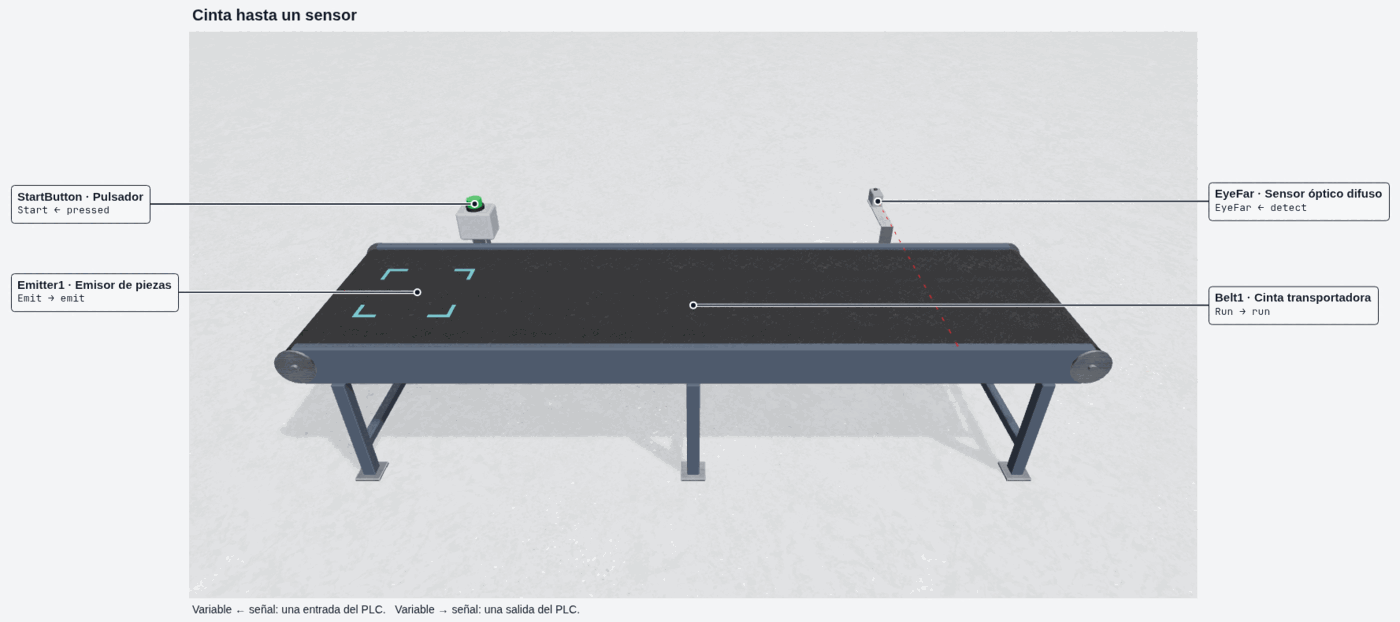
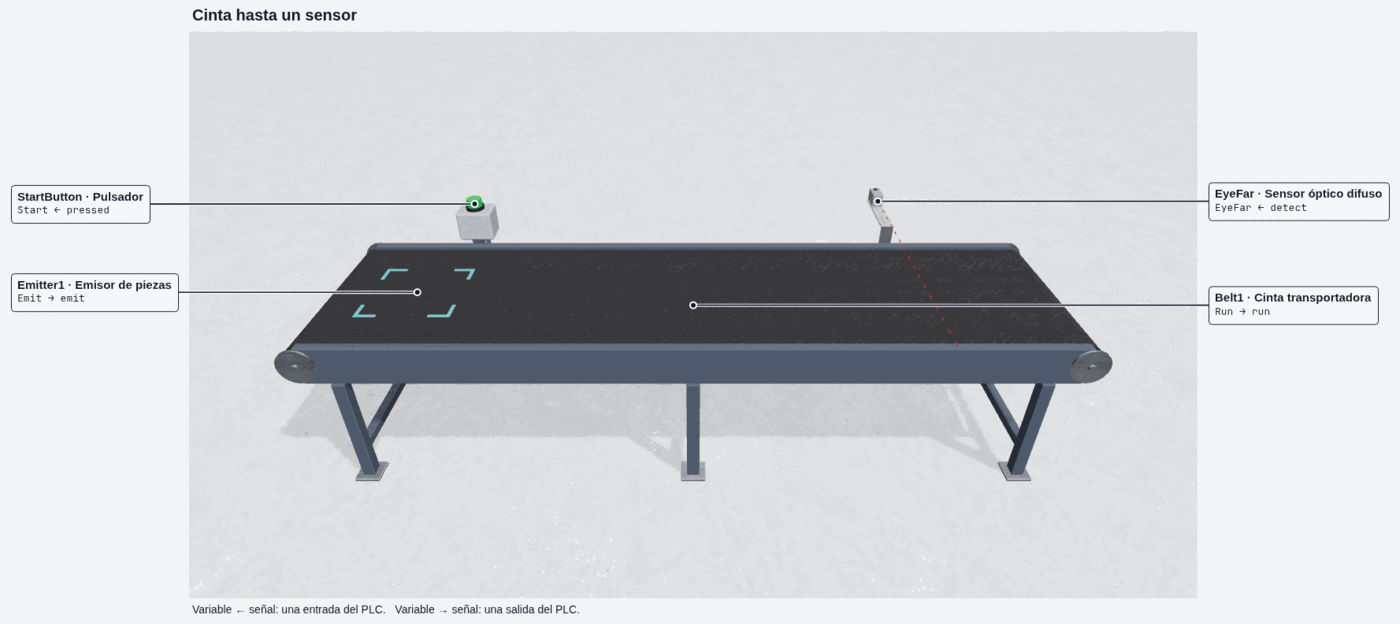
fix(learn): require image pairs to match in size and alt text, and pad the Spanish machine image to its pair

diff --git a/packages/zplc-ide/src/learn/lessonPackage.ts b/packages/zplc-ide/src/learn/lessonPackage.ts
@@ -662,14 +662,16 @@ export interface ReadingSource {
 export interface ReadingWalk {
   directives: ReadingDirective[];
   images: string[];
+  /** The alt text of each image, by its src. */
+  alts: Record<string, string>;
 }
 
 /** Every live block and image of a page, in reading order, inside lists and callouts too. */
 export function walkReading(blocks: readonly ReadingBlock[]): ReadingWalk {
-  const found: ReadingWalk = { directives: [], images: [] };
+  const found: ReadingWalk = { directives: [], images: [], alts: {} };
   const visit = (block: ReadingBlock): void => {
     if (block.type === 'directive') found.directives.push(block.directive);
-    else if (block.type === 'image') found.images.push(block.src);
+    else if (block.type === 'image') (found.images.push(block.src), (found.alts[block.src] = block.alt));
     else if (block.type === 'callout') block.children.forEach(visit);
     else if (block.type === 'list') block.items.forEach((item) => item.forEach(visit));
   };
@@ -683,6 +685,30 @@ export const directiveFiles = (directives: readonly ReadingDirective[]): string[
     directives.filter((each) => each.kind === 'ld-figure' || each.kind === 'ld-try').map((each) => (each.data as { src: string }).src),
   ),
 ];
+
+const pixelSize = (bytes: Uint8Array): string => {
+  const view = new DataView(bytes.buffer, bytes.byteOffset, bytes.byteLength);
+  return bytes.length < 24 ? '?' : `${view.getUint32(16)} x ${view.getUint32(20)}`;
+};
+
+/** The language pairs `images/x.en.png` and `images/x.es.png` go together, with the same pixel size and an alt text per page. */
+function imagePairProblems(images: ReadingSource['images'], walks: Record<LessonLocale, ReadingWalk>): string[] {
+  const problems: string[] = [];
+  for (const [path, bytes] of Object.entries(images)) {
+    const match = /^(.*)\.(en|es)\.png$/.exec(path);
+    if (!match || match[2] !== 'en') {
+      if (match && !(`${match[1]}.en.png` in images)) problems.push(`${path}: has no ${match[1]}.en.png beside it`);
+      continue;
+    }
+    const other = `${match[1]}.es.png`;
+    if (!(other in images)) problems.push(`${path}: has no ${other} beside it`);
+    else if (pixelSize(bytes) !== pixelSize(images[other]!))
+      problems.push(`${path} and ${other}: have different sizes (${pixelSize(bytes)} and ${pixelSize(images[other]!)})`);
+    else if (walks.en.alts[path] !== undefined && walks.en.alts[path] === walks.es.alts[other])
+      problems.push(`reading.es.md: "${other}" needs an alt text of its own, not the English one`);
+  }
+  return problems;
+}
 
 export interface ReadingChecked {
   problems: string[];
@@ -703,7 +729,7 @@ export interface ReadingChecked {
 export function checkReading(source: ReadingSource, scenario: ScenarioFile): ReadingChecked {
   const problems: string[] = [];
   const expanded = { en: '', es: '' };
-  const walks: Record<LessonLocale, ReadingWalk> = { en: { directives: [], images: [] }, es: { directives: [], images: [] } };
+  const walks: Record<LessonLocale, ReadingWalk> = { en: { directives: [], images: [], alts: {} }, es: { directives: [], images: [], alts: {} } };
   const shapes: Partial<Record<LessonLocale, string>> = {};
   for (const locale of LESSON_LOCALES) {
     const file = `reading.${locale}.md`;
@@ -726,6 +752,7 @@ export function checkReading(source: ReadingSource, scenario: ScenarioFile): Rea
     else if (readingMarkup(source.en).join(' ') !== readingMarkup(source.es).join(' '))
       problems.push('the English and Spanish reading pages do not quote the same facts');
   }
+  problems.push(...imagePairProblems(source.images, walks));
   for (const [path, bytes] of Object.entries(source.images)) {
     if (bytes.length > MAX_READING_IMAGE_BYTES) problems.push(`${path}: is over the ${MAX_READING_IMAGE_BYTES / 1024} KB limit`);
     if (path.endsWith('.png') && !PNG_SIGNATURE.every((byte, index) => bytes[index] === byte)) problems.push(`${path}: is not a PNG file`);
